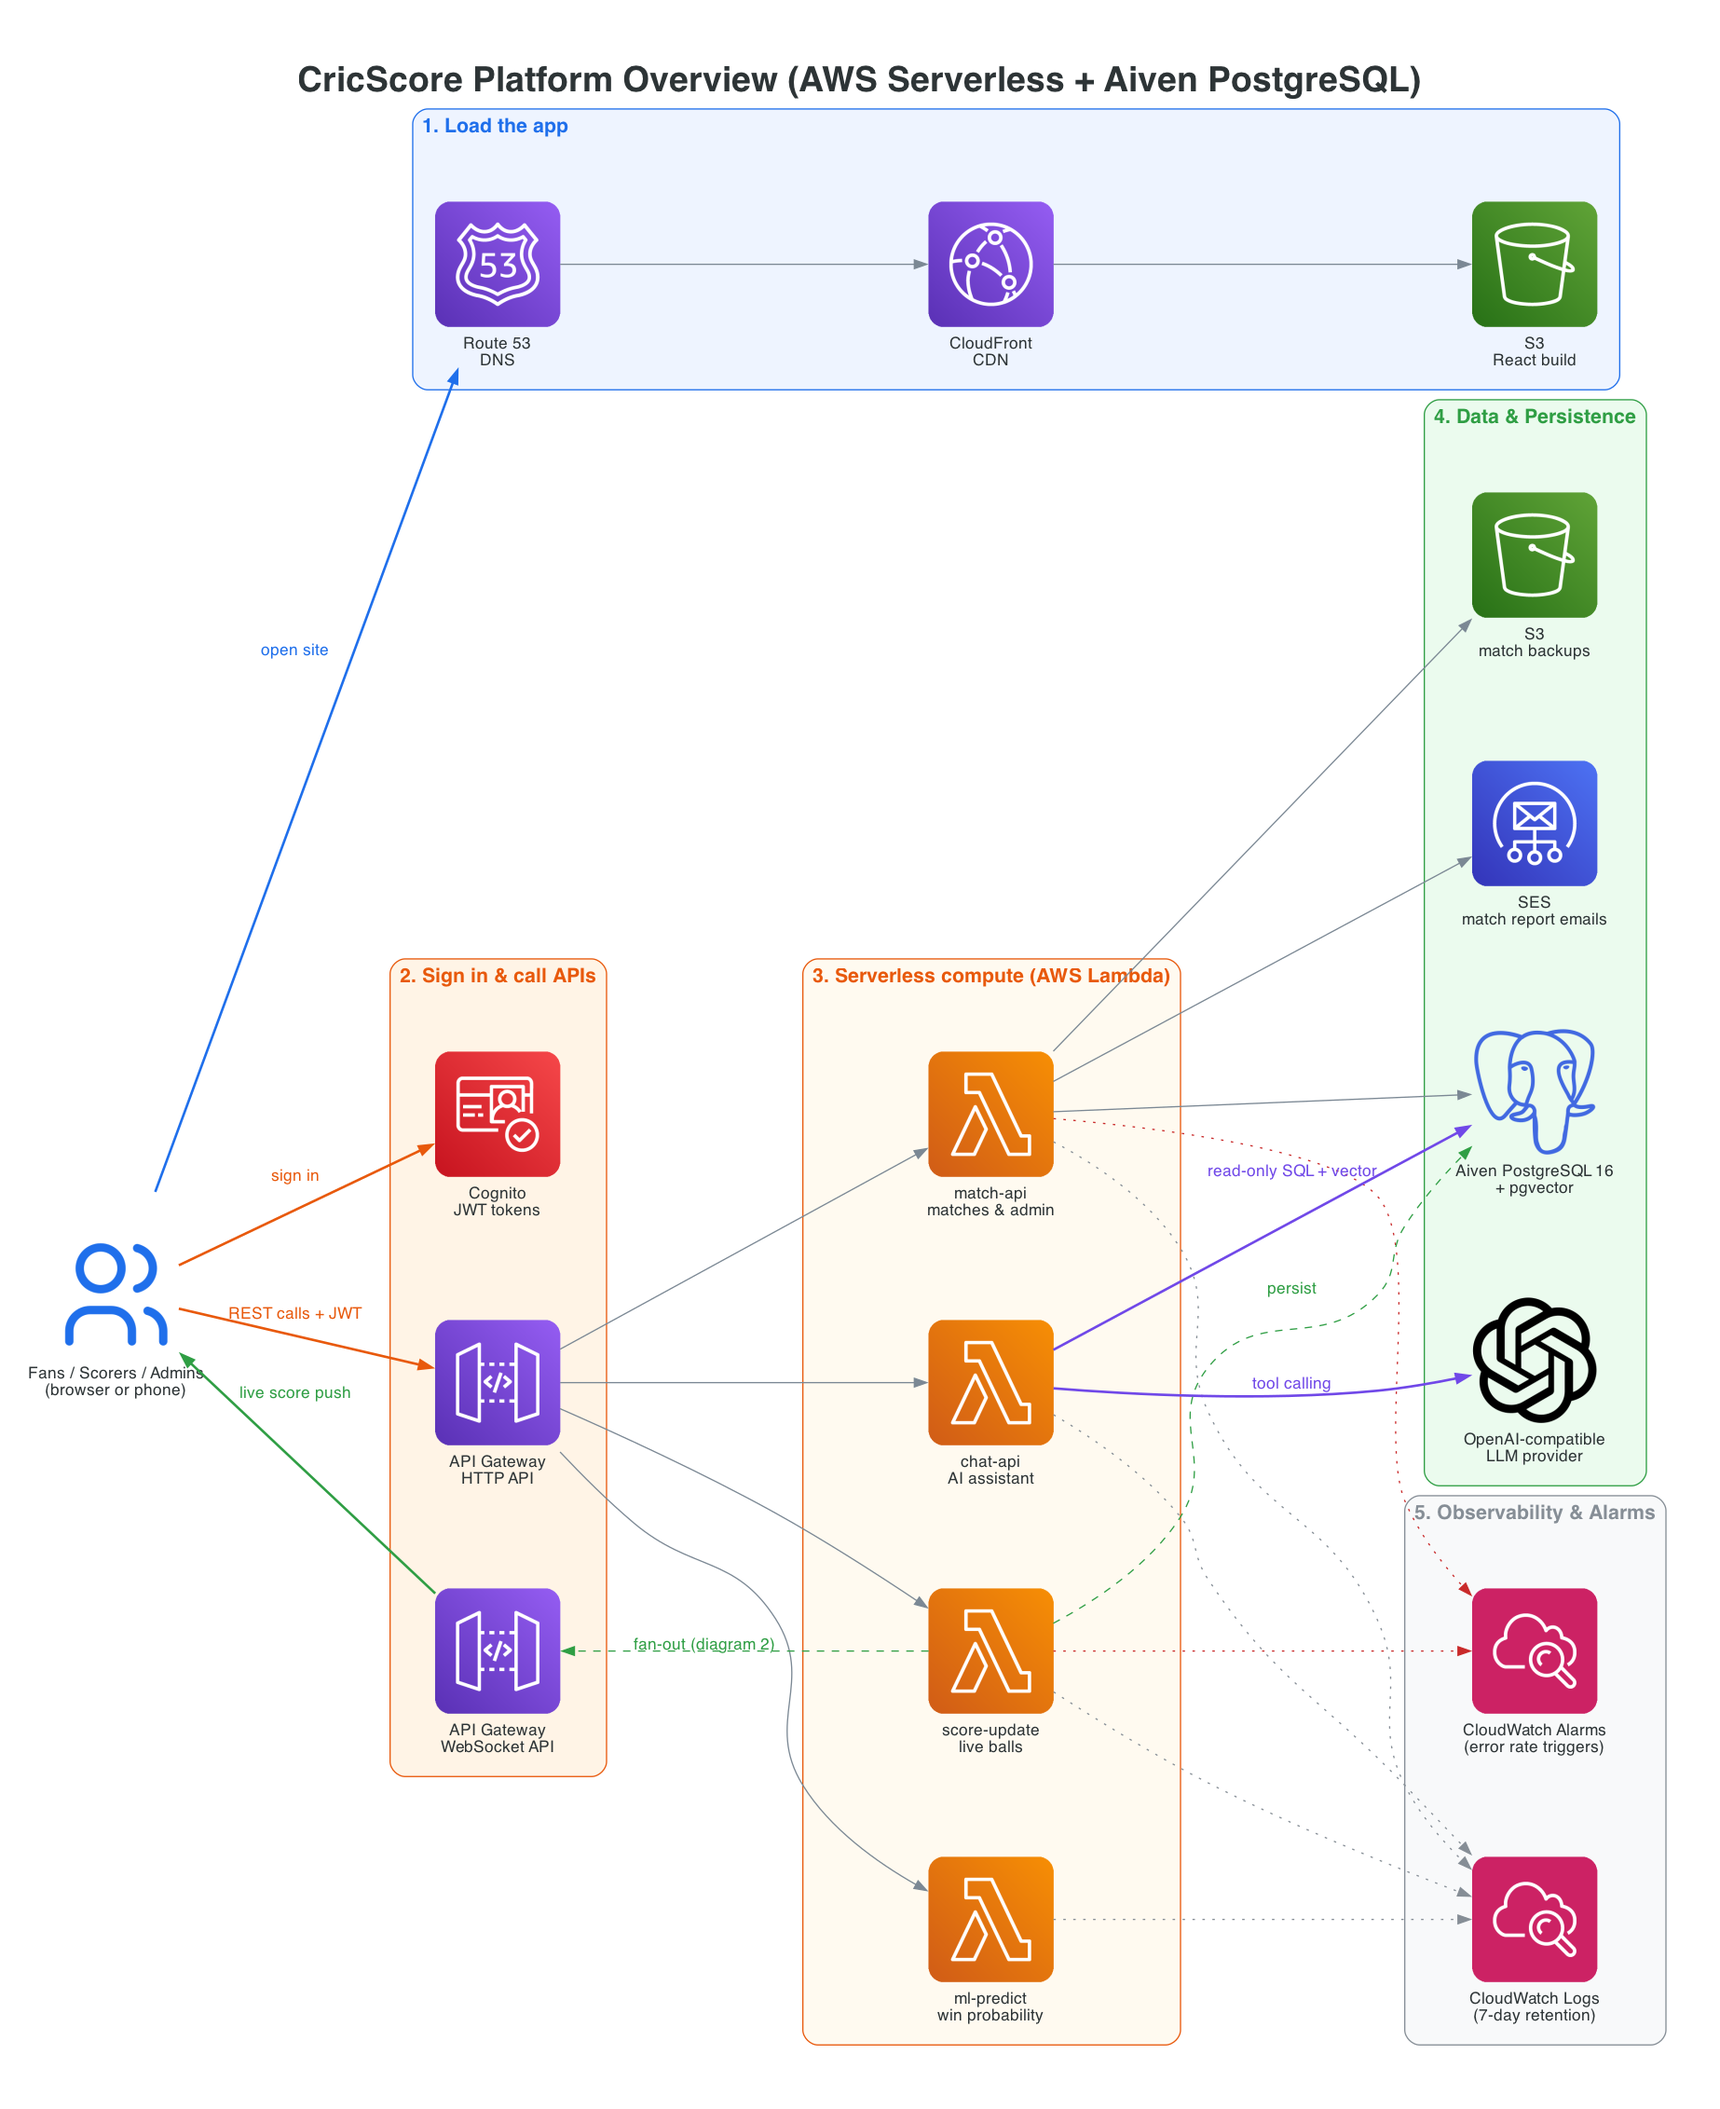
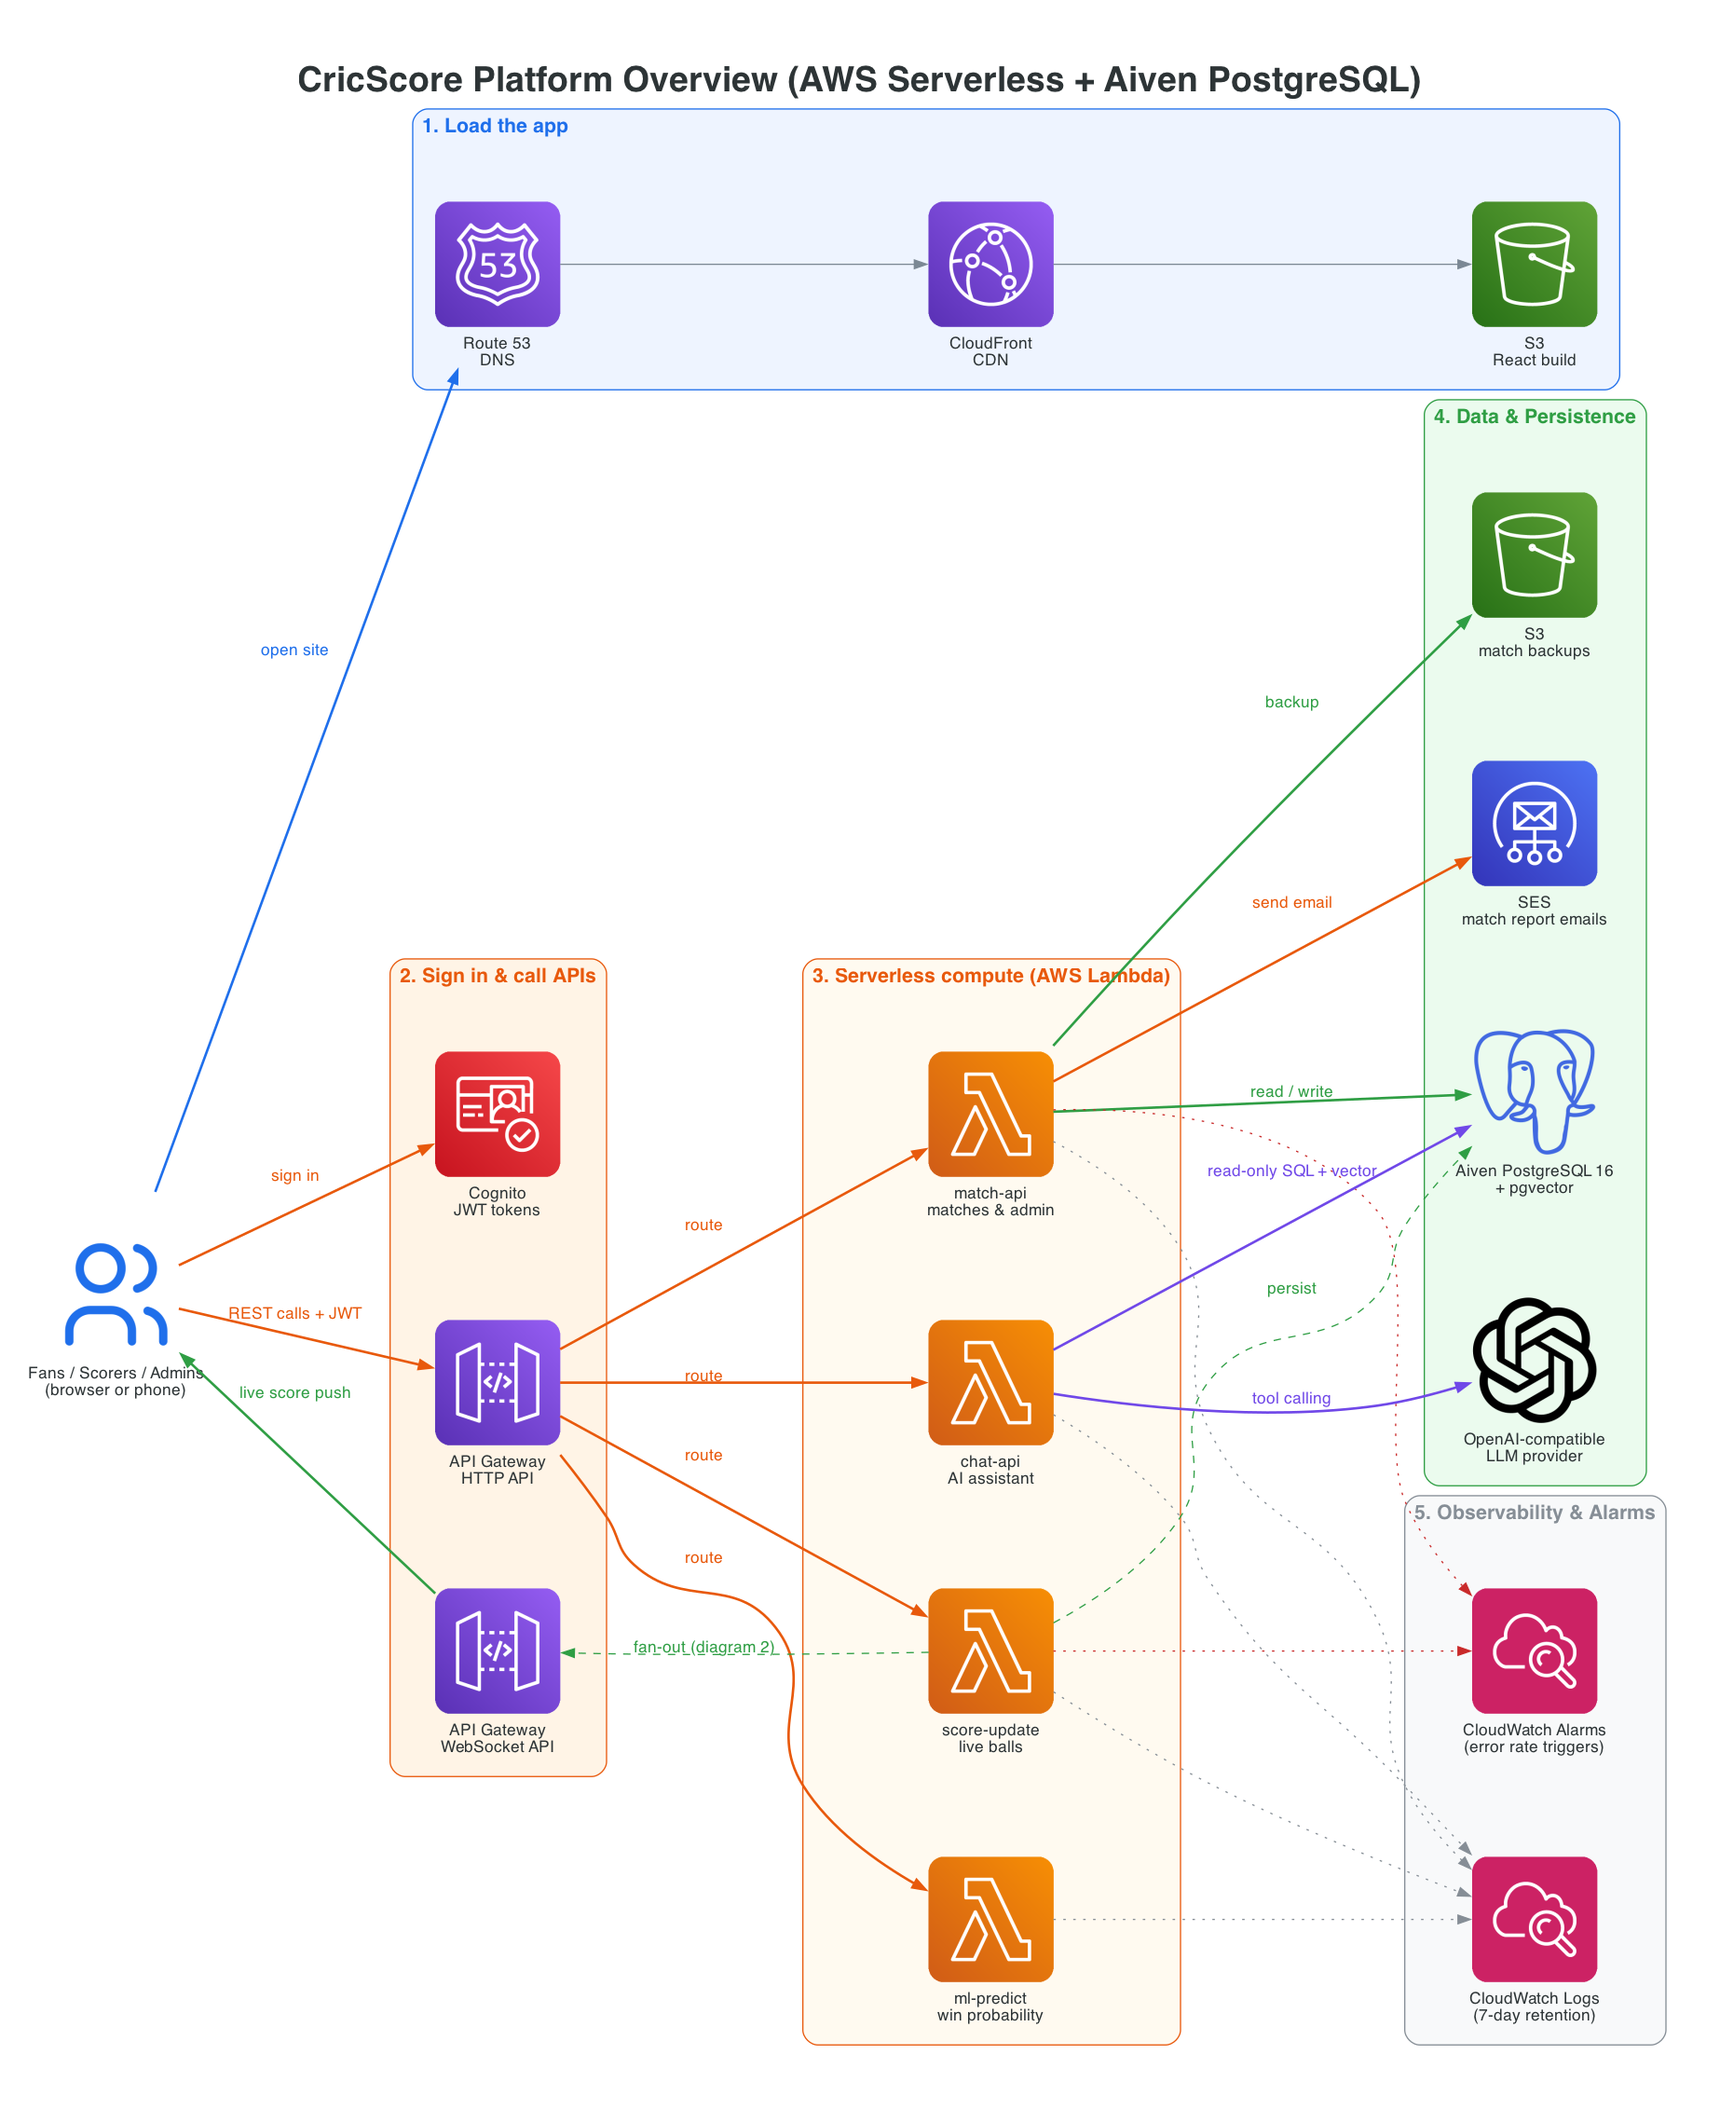
fix(diagrams): add explicit edge labels to resolve CodeQL statement warning

diff --git a/docs/diagrams/generate_architecture_diagrams.py b/docs/diagrams/generate_architecture_diagrams.py
@@ -128,14 +128,11 @@ def platform_overview() -> None:
         users >> edge("REST calls + JWT", ORANGE) >> http
         ws >> edge("live score push", GREEN) >> users
 
-        http >> match_api
-        http >> score
-        http >> chat
-        http >> ml
+        http >> edge("route", ORANGE) >> [match_api, score, chat, ml]
 
-        match_api >> pg
-        match_api >> backups
-        match_api >> mail
+        match_api >> edge("read / write", GREEN) >> pg
+        match_api >> edge("backup", GREEN) >> backups
+        match_api >> edge("send email", ORANGE) >> mail
         score >> edge("fan-out (diagram 2)", GREEN, "dashed") >> ws
         score >> edge("persist", GREEN, "dashed") >> pg
         chat >> edge("read-only SQL + vector", PURPLE) >> pg
@@ -269,12 +266,12 @@ def mlops() -> None:
 
         data >> dvc >> edge("train", PURPLE) >> [sk, xgb]
         [sk, xgb] >> mlflow >> edge("champion model", ORANGE) >> gate
-        gate >> registry
+        gate >> edge("save artifact", ORANGE) >> registry
         gate >> Edge(label="docker push", color=ORANGE, fontcolor=ORANGE) >> ecr
         viewers >> edge("ball update", GREEN) >> http >> ml
         ecr >> edge("container image", GREEN, "dashed") >> ml
         registry >> edge("checksum-verified model", GREEN, "dashed") >> ml
-        ml >> engine
+        ml >> edge("evaluate", GREEN) >> engine
 
 
 if __name__ == "__main__":
